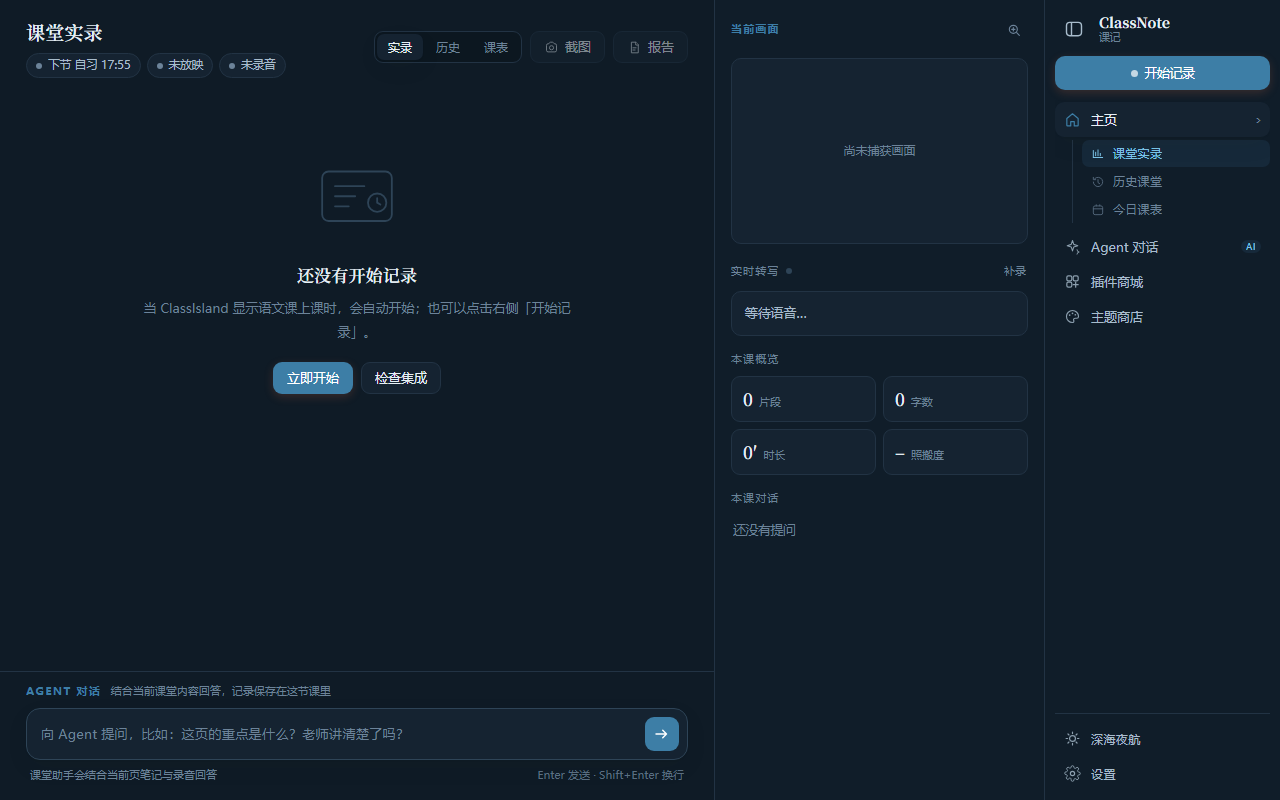
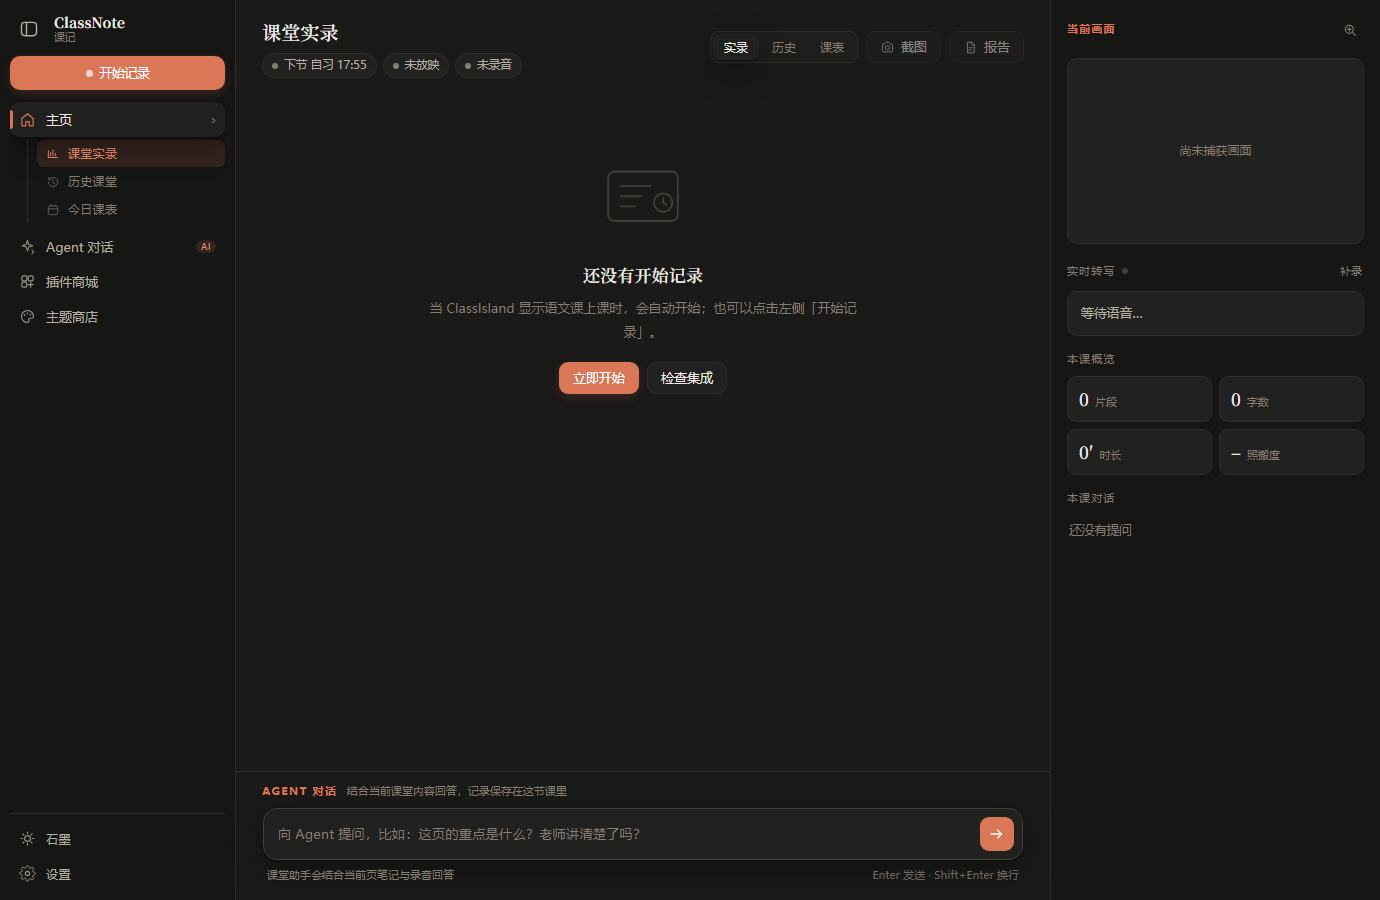
fix(ui): 主导航栏移到窗口左侧
- .rail 加 order:-1，边框改 border-right，激活指示条移到条目左缘
- 文案统一为“左侧导航栏 / 点击左侧开始记录”
- 更新主界面截图

diff --git a/web/js/app.js b/web/js/app.js
@@ -72,7 +72,7 @@ function enterApp() {
   S.timers.push(setInterval(() => { if (S.live) refreshLiveSession(); }, 6000));
 }
 
-/* ---------------- 右侧导航 ---------------- */
+/* ---------------- 左侧导航 ---------------- */
 
 function applyRailState(collapsed) {
   const app = $('#app');
@@ -253,7 +253,7 @@ function emptyState() {
   return el('div', { class: 'empty-state', id: 'empty-state' }, [
     el('div', { class: 'empty-art', html: `<svg viewBox="0 0 96 96" fill="none"><rect x="10" y="18" width="76" height="54" rx="7" stroke="currentColor" stroke-width="2"/><path d="M24 34h32M24 45h22M24 56h15" stroke="currentColor" stroke-width="2" stroke-linecap="round"/><circle cx="70" cy="52" r="10" stroke="currentColor" stroke-width="2"/><path d="M70 47v5l3.5 2" stroke="currentColor" stroke-width="2" stroke-linecap="round"/></svg>` }),
     el('h3', { text: '还没有开始记录' }),
-    el('p', { text: '当 ClassIsland 显示上课时，会自动开始；也可以点击右侧「开始记录」。' }),
+    el('p', { text: '当 ClassIsland 显示上课时，会自动开始；也可以点击左侧「开始记录」。' }),
     el('div', { class: 'empty-actions' }, [
       el('button', { class: 'btn primary', onclick: toggleLesson }, '立即开始'),
       el('button', { class: 'btn', onclick: () => openSettings(S) }, '检查集成'),
@@ -890,7 +890,7 @@ function bindGlobal() {
   $('#btn-theme').addEventListener('click', cycleTheme);
   $('#btn-zoom').addEventListener('click', () => { const i = $('#slide-img'); if (i.src) openLightbox(i.src); });
 
-  // 右侧导航
+  // 左侧导航
   $('#rail-toggle').addEventListener('click', toggleRail);
   $('#rail-home').addEventListener('click', () => {
     if (S.page === 'home') {

diff --git a/web/css/app.css b/web/css/app.css
@@ -743,10 +743,11 @@ input, textarea, select { font-family: inherit; font-size: inherit; color: inher
 .lightbox { position: fixed; inset: 0; z-index: 90; background: rgba(10, 9, 8, .86); display: grid; place-items: center; padding: 30px; cursor: zoom-out; }
 .lightbox img { max-width: 100%; max-height: 100%; border-radius: 8px; box-shadow: 0 30px 90px rgba(0,0,0,.5); }
 
-/* ---------- 右侧导航栏 ---------- */
+/* ---------- 左侧导航栏 ---------- */
 .rail {
+  order: -1;
   flex: 0 0 236px; width: 236px; min-width: 0;
-  background: var(--bg-side); border-left: 1px solid var(--line);
+  background: var(--bg-side); border-right: 1px solid var(--line);
   display: flex; flex-direction: column; gap: 10px;
   padding: 12px 10px 10px; min-height: 0;
   transition: width .22s cubic-bezier(.2, .7, .2, 1), flex-basis .22s cubic-bezier(.2, .7, .2, 1);
@@ -791,8 +792,8 @@ input, textarea, select { font-family: inherit; font-size: inherit; color: inher
 .rail-item.active, .rail-group.active { background: var(--bg-panel); color: var(--ink); box-shadow: var(--shadow); font-weight: 500; }
 .rail-item.active svg, .rail-group.active svg { color: var(--accent); opacity: 1; }
 .rail-item.active::after, .rail-group.active::after {
-  content: ''; position: absolute; right: -10px; top: 9px; bottom: 9px;
-  width: 3px; border-radius: 3px 0 0 3px; background: var(--accent);
+  content: ''; position: absolute; left: 0; top: 8px; bottom: 8px;
+  width: 3px; border-radius: 0 3px 3px 0; background: var(--accent);
 }
 .rail-chev { margin-left: auto; font-style: normal; font-size: 15px; color: var(--ink-3); transition: transform .2s; }
 .rail-group.closed .rail-chev { transform: rotate(90deg); }

diff --git a/web/index.html b/web/index.html
@@ -61,7 +61,7 @@
               </svg>
             </div>
             <h3>还没有开始记录</h3>
-            <p>当 ClassIsland 显示语文课上课时，会自动开始；也可以点击右侧「开始记录」。</p>
+            <p>当 ClassIsland 显示语文课上课时，会自动开始；也可以点击左侧「开始记录」。</p>
             <div class="empty-actions">
               <button class="btn primary" id="btn-empty-start">立即开始</button>
               <button class="btn" id="btn-empty-settings">检查集成</button>
@@ -217,7 +217,7 @@
     </div>
   </aside>
 
-  <!-- ===== 右侧导航栏（可展开/收拢） ===== -->
+  <!-- ===== 左侧导航栏（可展开/收拢） ===== -->
   <aside class="rail" id="rail" aria-label="主导航">
     <div class="rail-head">
       <button class="rail-toggle" id="rail-toggle" title="收拢侧边栏" aria-expanded="true">

diff --git a/web/js/settings.js b/web/js/settings.js
@@ -311,7 +311,7 @@ function appearTab(cfg) {
         <input type="file" id="ct-file" accept="application/json" hidden>
         <span class="hint" id="ct-result"></span>
       </div>
-      <div class="desc" style="margin-top:8px">改动颜色会立即预览；保存后可在上方主题列表选用。社区主题在右侧「主题商店」页。</div>
+      <div class="desc" style="margin-top:8px">改动颜色会立即预览；保存后可在上方主题列表选用。社区主题在左侧「主题商店」页。</div>
     </div>
 
     <h3>显示</h3>

diff --git a/web/js/store.js b/web/js/store.js
@@ -5,7 +5,7 @@ import { openSettings } from './settings.js';
 
 /**
  * 插件商城 / 主题商店。
- * 两个页面都挂在右侧导航栏，由 app.js 在切换页面时调用 render。
+ * 两个页面都挂在左侧导航栏，由 app.js 在切换页面时调用 render。
  */
 let S = null;
 let plTab = 'market';
